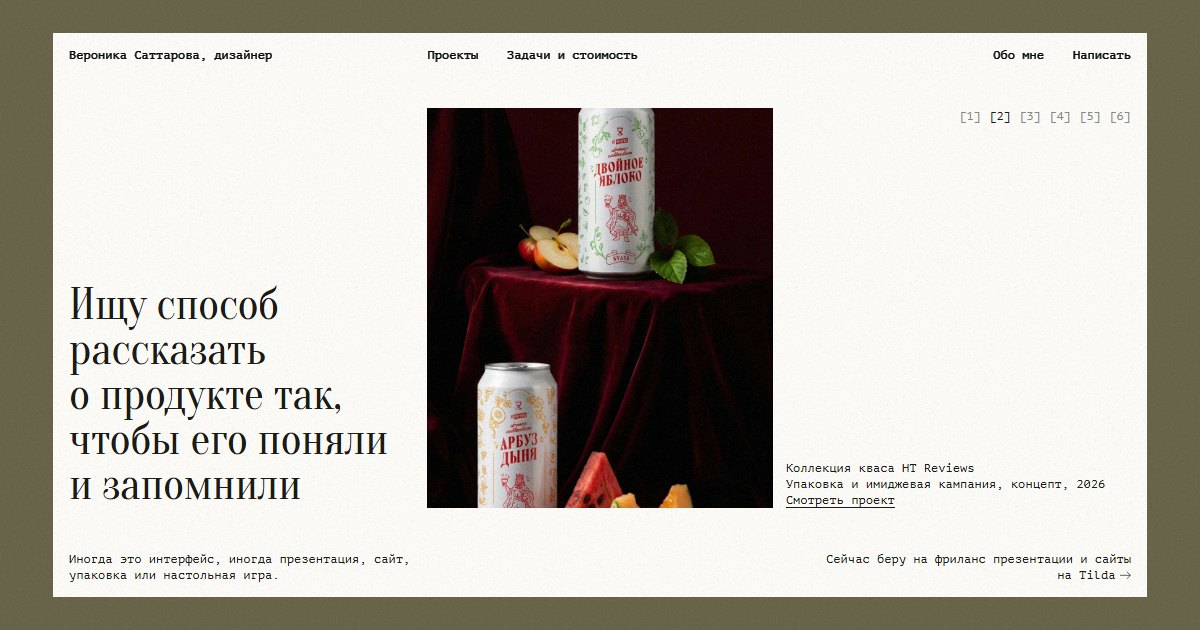
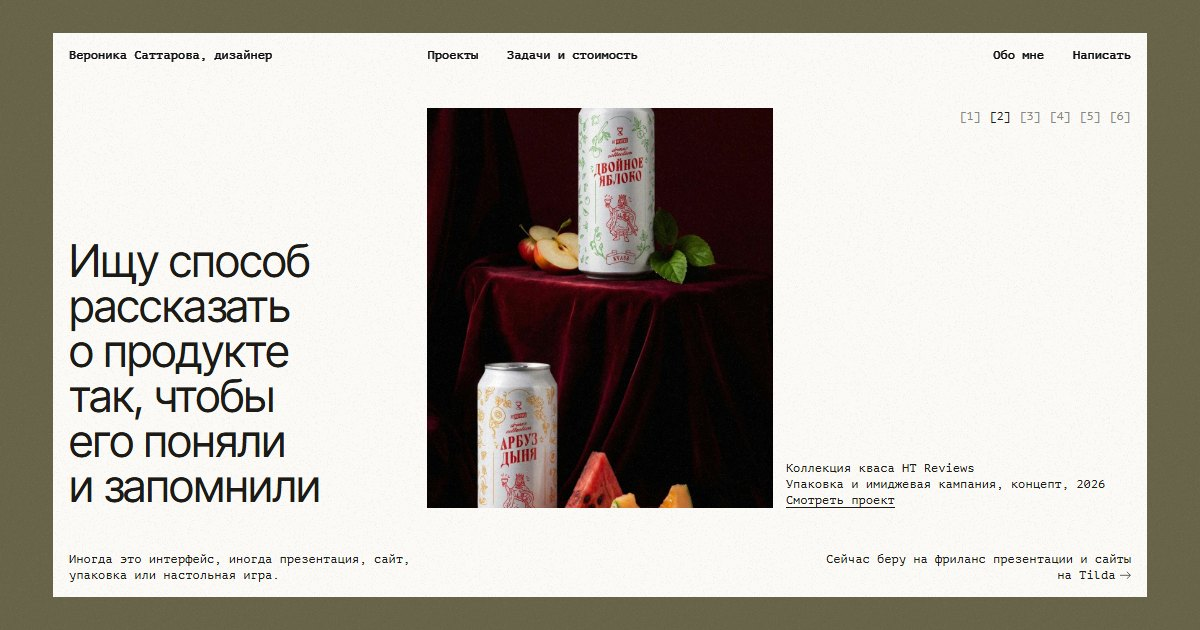
Оставить гарнитуры Inter Tight и PT Mono
Заголовки и текст переведены на Inter Tight, моноширинный текст остался на PT Mono.
Oranienbaum и Spectral удалены из проекта.

Changed region(s): [[0.0617, 0.5429, 0.3392, 0.7238], [0.0308, 0.3921, 0.2775, 0.5127], [0.0617, 0.754, 0.2775, 0.8143]]

diff --git a/docs/assets/css/style.css b/docs/assets/css/style.css
@@ -3,14 +3,6 @@
    Цвета страницы задаются переменными на <body>: --bg, --fg, --muted, --rule, --field, --sheet. */
 
 /* Шрифты: лицензия SIL Open Font License */
-@font-face{font-family:"Oranienbaum";src:url(../fonts/oranienbaum-cyrillic-400-normal.woff2) format("woff2");font-display:swap;unicode-range:U+0301,U+0400-045F,U+0490-0491,U+04B0-04B1,U+2116}
-@font-face{font-family:"Oranienbaum";src:url(../fonts/oranienbaum-latin-400-normal.woff2) format("woff2");font-display:swap;unicode-range:U+0000-00FF,U+0131,U+0152-0153,U+02BB-02BC,U+02C6,U+02DA,U+02DC,U+2000-206F,U+20AC,U+2122,U+2212}
-@font-face{font-family:"Spectral";src:url(../fonts/spectral-cyrillic-400-normal.woff2) format("woff2");font-display:swap;unicode-range:U+0301,U+0400-045F,U+0490-0491,U+04B0-04B1,U+2116}
-@font-face{font-family:"Spectral";src:url(../fonts/spectral-latin-400-normal.woff2) format("woff2");font-display:swap;unicode-range:U+0000-00FF,U+0131,U+0152-0153,U+02BB-02BC,U+02C6,U+02DA,U+02DC,U+2000-206F,U+20AC,U+2122,U+2212}
-@font-face{font-family:"Spectral";font-style:italic;src:url(../fonts/spectral-cyrillic-400-italic.woff2) format("woff2");font-display:swap;unicode-range:U+0301,U+0400-045F,U+0490-0491,U+04B0-04B1,U+2116}
-@font-face{font-family:"Spectral";font-style:italic;src:url(../fonts/spectral-latin-400-italic.woff2) format("woff2");font-display:swap;unicode-range:U+0000-00FF,U+0131,U+0152-0153,U+02BB-02BC,U+02C6,U+02DA,U+02DC,U+2000-206F,U+20AC,U+2122,U+2212}
-@font-face{font-family:"PT Mono";src:url(../fonts/pt-mono-cyrillic-400-normal.woff2) format("woff2");font-display:swap;unicode-range:U+0301,U+0400-045F,U+0490-0491,U+04B0-04B1,U+2116}
-@font-face{font-family:"PT Mono";src:url(../fonts/pt-mono-latin-400-normal.woff2) format("woff2");font-display:swap;unicode-range:U+0000-00FF,U+0131,U+0152-0153,U+02BB-02BC,U+02C6,U+02DA,U+02DC,U+2000-206F,U+20AC,U+2122,U+2212}
 @font-face{font-family:"Inter Tight";font-weight:400;src:url(../fonts/inter-tight-cyrillic-400-normal.woff2) format("woff2");font-display:swap;unicode-range:U+0301,U+0400-045F,U+0490-0491,U+04B0-04B1,U+2116}
 @font-face{font-family:"Inter Tight";font-weight:400;src:url(../fonts/inter-tight-latin-400-normal.woff2) format("woff2");font-display:swap;unicode-range:U+0000-00FF,U+0131,U+0152-0153,U+02BB-02BC,U+02C6,U+02DA,U+02DC,U+2000-206F,U+20AC,U+2122,U+2212}
 @font-face{font-family:"Inter Tight";font-weight:400;src:url(../fonts/inter-tight-latin-ext-400-normal.woff2) format("woff2");font-display:swap;unicode-range:U+20BD}
@@ -18,10 +10,10 @@
 @font-face{font-family:"Inter Tight";font-weight:500;src:url(../fonts/inter-tight-latin-500-normal.woff2) format("woff2");font-display:swap;unicode-range:U+0000-00FF,U+0131,U+0152-0153,U+02BB-02BC,U+02C6,U+02DA,U+02DC,U+2000-206F,U+20AC,U+2122,U+2212}
 
 :root{
-  --serif:"Spectral",Georgia,"Times New Roman",serif;
-  --display:"Oranienbaum","Times New Roman",serif;
   --mono:"PT Mono","Courier New",monospace;
   --sans:"Inter Tight","Helvetica Neue",Arial,sans-serif;
+  --serif:"Inter Tight","Helvetica Neue",Arial,sans-serif;
+  --display:"Inter Tight","Helvetica Neue",Arial,sans-serif;
 
   --bg:#f2f0ea;
   --fg:#1b1a17;

diff --git a/docs/about.html b/docs/about.html
@@ -13,7 +13,7 @@
 <meta property="og:image" content="https://veronikasattarova619-art.github.io/veronikasattarova-portfolio-2026/assets/img/og.jpg">
 <meta name="twitter:card" content="summary_large_image">
 <link rel="icon" href="assets/img/favicon.svg" type="image/svg+xml">
-<link rel="preload" href="assets/fonts/oranienbaum-cyrillic-400-normal.woff2" as="font" type="font/woff2" crossorigin>
+<link rel="preload" href="assets/fonts/inter-tight-cyrillic-400-normal.woff2" as="font" type="font/woff2" crossorigin>
 <link rel="stylesheet" href="assets/css/style.css">
 <script>(function(d){var c='js';if(!('onpagereveal' in window))c+=' no-vt';try{if(localStorage.getItem('grid')==='1')c+=' grid-on'}catch(e){}d.className=c})(document.documentElement)</script>
 <script src="assets/js/main.js" defer></script>

diff --git a/docs/index.html b/docs/index.html
@@ -13,7 +13,7 @@
 <meta property="og:image" content="https://veronikasattarova619-art.github.io/veronikasattarova-portfolio-2026/assets/img/og.jpg">
 <meta name="twitter:card" content="summary_large_image">
 <link rel="icon" href="assets/img/favicon.svg" type="image/svg+xml">
-<link rel="preload" href="assets/fonts/oranienbaum-cyrillic-400-normal.woff2" as="font" type="font/woff2" crossorigin>
+<link rel="preload" href="assets/fonts/inter-tight-cyrillic-400-normal.woff2" as="font" type="font/woff2" crossorigin>
 <link rel="stylesheet" href="assets/css/style.css">
 <script>(function(d){var c='js';if(!('onpagereveal' in window))c+=' no-vt';try{if(localStorage.getItem('grid')==='1')c+=' grid-on'}catch(e){}d.className=c})(document.documentElement)</script>
 <script src="assets/js/main.js" defer></script>

diff --git a/docs/kvas.html b/docs/kvas.html
@@ -13,7 +13,7 @@
 <meta property="og:image" content="https://veronikasattarova619-art.github.io/veronikasattarova-portfolio-2026/assets/img/og.jpg">
 <meta name="twitter:card" content="summary_large_image">
 <link rel="icon" href="assets/img/favicon.svg" type="image/svg+xml">
-<link rel="preload" href="assets/fonts/oranienbaum-cyrillic-400-normal.woff2" as="font" type="font/woff2" crossorigin>
+<link rel="preload" href="assets/fonts/inter-tight-cyrillic-400-normal.woff2" as="font" type="font/woff2" crossorigin>
 <link rel="stylesheet" href="assets/css/style.css">
 <script>(function(d){var c='js';if(!('onpagereveal' in window))c+=' no-vt';try{if(localStorage.getItem('grid')==='1')c+=' grid-on'}catch(e){}d.className=c})(document.documentElement)</script>
 <script src="assets/js/main.js" defer></script>

diff --git a/docs/projects.html b/docs/projects.html
@@ -13,7 +13,7 @@
 <meta property="og:image" content="https://veronikasattarova619-art.github.io/veronikasattarova-portfolio-2026/assets/img/og.jpg">
 <meta name="twitter:card" content="summary_large_image">
 <link rel="icon" href="assets/img/favicon.svg" type="image/svg+xml">
-<link rel="preload" href="assets/fonts/oranienbaum-cyrillic-400-normal.woff2" as="font" type="font/woff2" crossorigin>
+<link rel="preload" href="assets/fonts/inter-tight-cyrillic-400-normal.woff2" as="font" type="font/woff2" crossorigin>
 <link rel="stylesheet" href="assets/css/style.css">
 <script>(function(d){var c='js';if(!('onpagereveal' in window))c+=' no-vt';try{if(localStorage.getItem('grid')==='1')c+=' grid-on'}catch(e){}d.className=c})(document.documentElement)</script>
 <script src="assets/js/main.js" defer></script>

diff --git a/docs/services.html b/docs/services.html
@@ -13,7 +13,7 @@
 <meta property="og:image" content="https://veronikasattarova619-art.github.io/veronikasattarova-portfolio-2026/assets/img/og.jpg">
 <meta name="twitter:card" content="summary_large_image">
 <link rel="icon" href="assets/img/favicon.svg" type="image/svg+xml">
-<link rel="preload" href="assets/fonts/oranienbaum-cyrillic-400-normal.woff2" as="font" type="font/woff2" crossorigin>
+<link rel="preload" href="assets/fonts/inter-tight-cyrillic-400-normal.woff2" as="font" type="font/woff2" crossorigin>
 <link rel="stylesheet" href="assets/css/style.css">
 <script>(function(d){var c='js';if(!('onpagereveal' in window))c+=' no-vt';try{if(localStorage.getItem('grid')==='1')c+=' grid-on'}catch(e){}d.className=c})(document.documentElement)</script>
 <script src="assets/js/main.js" defer></script>

diff --git a/docs/smail.html b/docs/smail.html
@@ -13,7 +13,7 @@
 <meta property="og:image" content="https://veronikasattarova619-art.github.io/veronikasattarova-portfolio-2026/assets/img/og.jpg">
 <meta name="twitter:card" content="summary_large_image">
 <link rel="icon" href="assets/img/favicon.svg" type="image/svg+xml">
-<link rel="preload" href="assets/fonts/oranienbaum-cyrillic-400-normal.woff2" as="font" type="font/woff2" crossorigin>
+<link rel="preload" href="assets/fonts/inter-tight-cyrillic-400-normal.woff2" as="font" type="font/woff2" crossorigin>
 <link rel="stylesheet" href="assets/css/style.css">
 <script>(function(d){var c='js';if(!('onpagereveal' in window))c+=' no-vt';try{if(localStorage.getItem('grid')==='1')c+=' grid-on'}catch(e){}d.className=c})(document.documentElement)</script>
 <script src="assets/js/main.js" defer></script>

diff --git a/docs/studyspace.html b/docs/studyspace.html
@@ -13,7 +13,7 @@
 <meta property="og:image" content="https://veronikasattarova619-art.github.io/veronikasattarova-portfolio-2026/assets/img/og.jpg">
 <meta name="twitter:card" content="summary_large_image">
 <link rel="icon" href="assets/img/favicon.svg" type="image/svg+xml">
-<link rel="preload" href="assets/fonts/oranienbaum-cyrillic-400-normal.woff2" as="font" type="font/woff2" crossorigin>
+<link rel="preload" href="assets/fonts/inter-tight-cyrillic-400-normal.woff2" as="font" type="font/woff2" crossorigin>
 <link rel="stylesheet" href="assets/css/style.css">
 <script>(function(d){var c='js';if(!('onpagereveal' in window))c+=' no-vt';try{if(localStorage.getItem('grid')==='1')c+=' grid-on'}catch(e){}d.className=c})(document.documentElement)</script>
 <script src="assets/js/main.js" defer></script>

diff --git a/docs/tsenny-put.html b/docs/tsenny-put.html
@@ -13,7 +13,7 @@
 <meta property="og:image" content="https://veronikasattarova619-art.github.io/veronikasattarova-portfolio-2026/assets/img/og.jpg">
 <meta name="twitter:card" content="summary_large_image">
 <link rel="icon" href="assets/img/favicon.svg" type="image/svg+xml">
-<link rel="preload" href="assets/fonts/oranienbaum-cyrillic-400-normal.woff2" as="font" type="font/woff2" crossorigin>
+<link rel="preload" href="assets/fonts/inter-tight-cyrillic-400-normal.woff2" as="font" type="font/woff2" crossorigin>
 <link rel="stylesheet" href="assets/css/style.css">
 <script>(function(d){var c='js';if(!('onpagereveal' in window))c+=' no-vt';try{if(localStorage.getItem('grid')==='1')c+=' grid-on'}catch(e){}d.className=c})(document.documentElement)</script>
 <script src="assets/js/main.js" defer></script>

diff --git a/docs/yumapos.html b/docs/yumapos.html
@@ -13,7 +13,7 @@
 <meta property="og:image" content="https://veronikasattarova619-art.github.io/veronikasattarova-portfolio-2026/assets/img/og.jpg">
 <meta name="twitter:card" content="summary_large_image">
 <link rel="icon" href="assets/img/favicon.svg" type="image/svg+xml">
-<link rel="preload" href="assets/fonts/oranienbaum-cyrillic-400-normal.woff2" as="font" type="font/woff2" crossorigin>
+<link rel="preload" href="assets/fonts/inter-tight-cyrillic-400-normal.woff2" as="font" type="font/woff2" crossorigin>
 <link rel="stylesheet" href="assets/css/style.css">
 <script>(function(d){var c='js';if(!('onpagereveal' in window))c+=' no-vt';try{if(localStorage.getItem('grid')==='1')c+=' grid-on'}catch(e){}d.className=c})(document.documentElement)</script>
 <script src="assets/js/main.js" defer></script>
